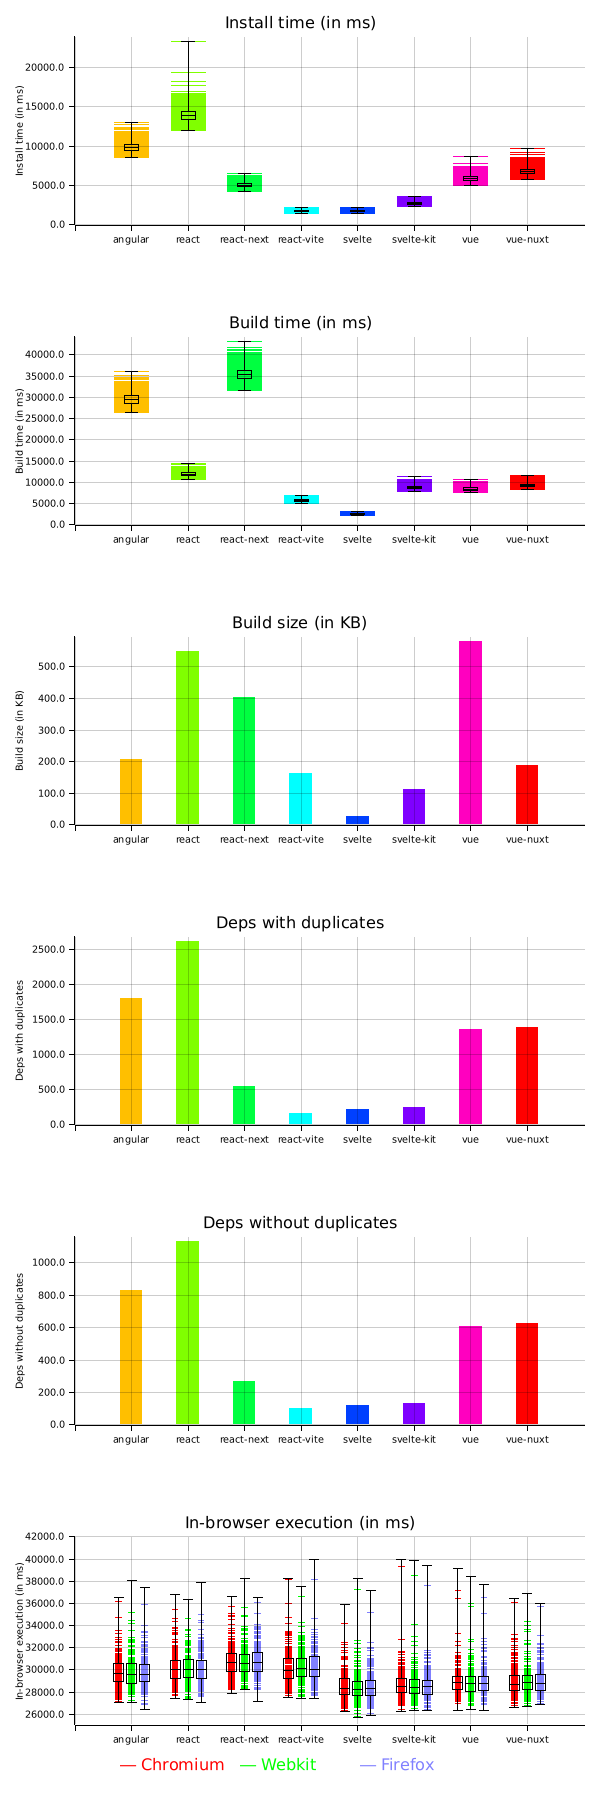
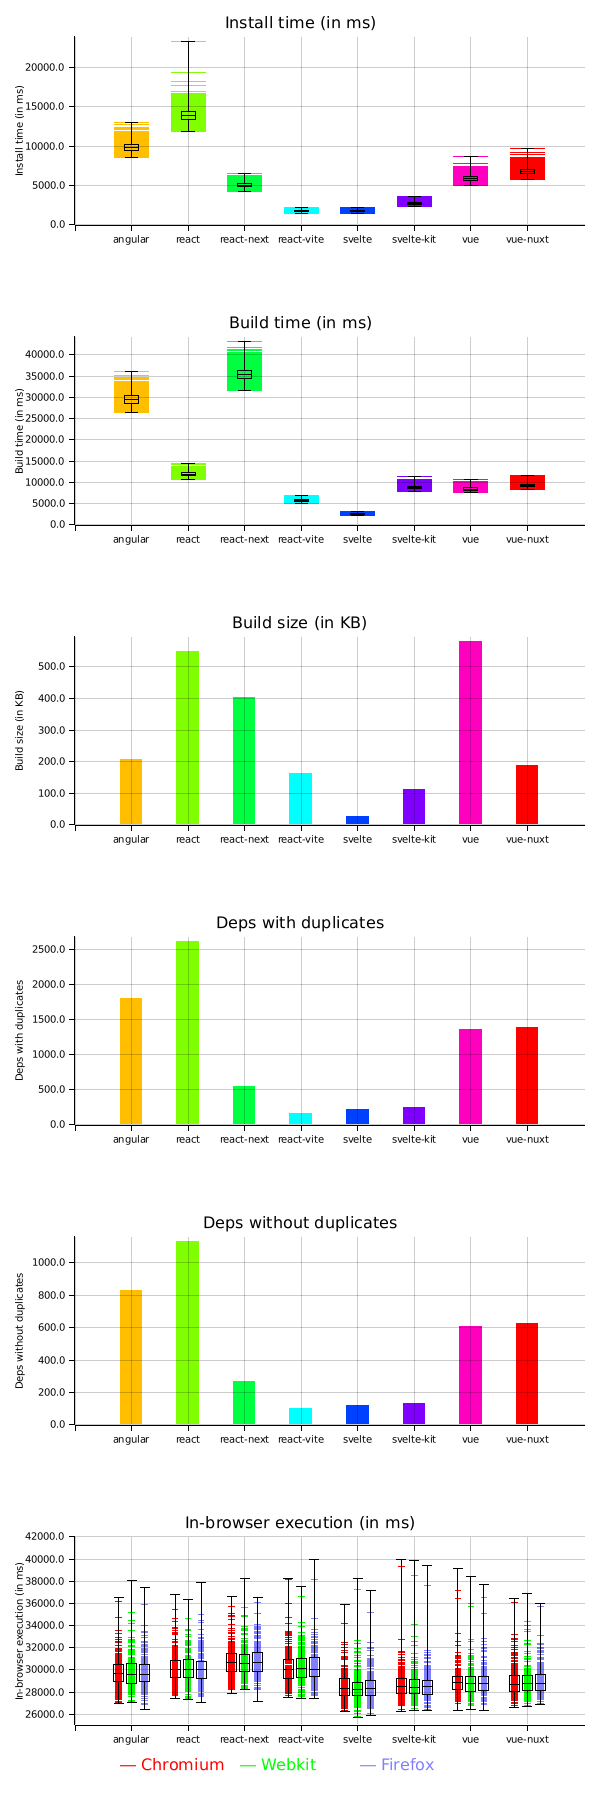
More data for vps

Changed region(s): [[0.03, 0.8711, 0.09, 0.9333], [0.03, 0.2178, 0.09, 0.28]]

diff --git a/README.md b/README.md
@@ -30,8 +30,8 @@ Pictured results:
 | Server                       | VPS                         | Local machine                 |
 |------------------------------|-----------------------------|-------------------------------|
 | Results                      | ![](./output/graph_vps.png) | ![](./output/graph_local.png) |
-| Number of build benchmarks   | 2063 | 118 |
-| Number of runtime benchmarks | 231 | 13 |
+| Number of build benchmarks   | 2068 | 118 |
+| Number of runtime benchmarks | 236 | 13 |
 
 ## How to reproduce
 
